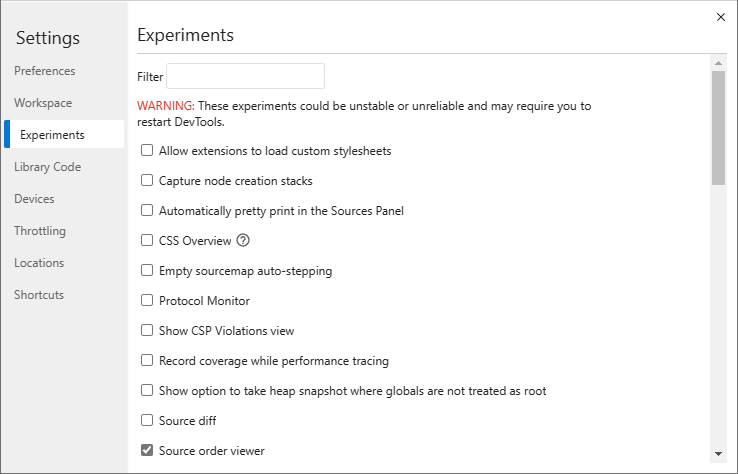
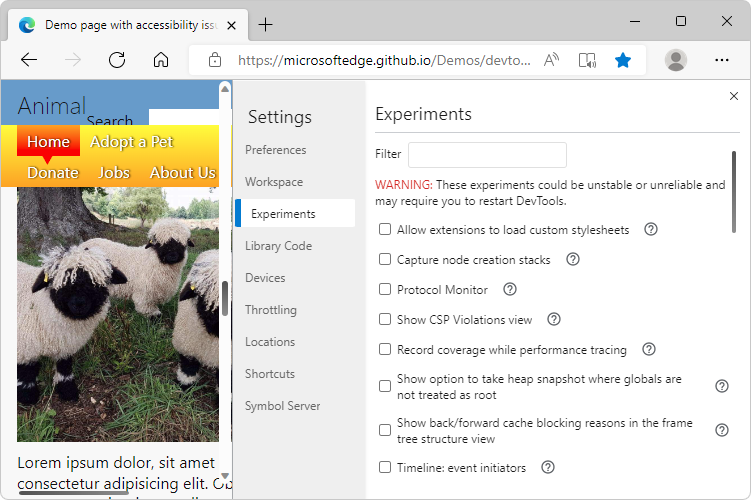
Doc locking Inspect tool overlay

diff --git a/microsoft-edge/devtools-guide-chromium/whats-new/2022/05/devtools-102.md b/microsoft-edge/devtools-guide-chromium/whats-new/2022/05/devtools-102.md
@@ -81,33 +81,21 @@ See also:
 <!-- Title: Improving the Inspect element tooltip -->
 <!-- Subtitle: The Inspect element tooltip now persists until you dismiss it, improving accessibility and ease of use. -->
 
-Previously, in the **Elements** tool, the hover overlay for the node that you selected constantly changed when you used the **Select Element** feature.
-The previous design was difficult to use with a screen magnifier.
+Previously, in the **Elements** tool, the hover overlay for the node that you selected constantly changed when you used the **Inspect tool** (![Inspect tool icon.](../../../media/inspect-tool-icon-light-theme.png)).  The previous design was difficult to use with a screen magnifier.
 
 When using the **Inspect** tool, to keep the node (and overlay) selected,<!--?--> there's now a `Ctrl`+`Alt` key modifier.
-Now, if you hold down `Ctrl`+`Alt`, when you move the mouse pointer over the rendered webpage, the existing tooltip and grid color overlay for the Inspect tool remains, as if locked.
-
-Also, you can now press `Ctrl`<!--?--> to hide the Inspect tool's tooltip overlay while you move the mouse pointer over the rendered webpage.
+Now, if you press and hold `Ctrl`+`Alt`, when you move the mouse pointer over the rendered webpage, the existing tooltip and grid color overlay for the Inspect tool remains, as if locked:
+<!-- todo: macOS modifiers? -->
 
 ![Inspect element tooltip now persists.](devtools-102-images/inspect-element-tooltip-persists.png)
-<!-- screenshot instructions:
-1. Set magnifier in windows settings to > 200%.
-2. Inspect the web page (microsoft.com is fine).
-3. Make sure the Elements tool tab is open.
-4. Click the Inspect element tool.
-5. Move to the content of the rendered webpage (not inside devtools).
-6. Try navigating without key modifiers.  You will start going through nodes/elements as soon as mouse starts moving.
-After the fix:
-Element keeps selected and you can move the mouse around (allowing you to navigate the screen and keep context)
--->
 
-<!-- work item has GIF -->
+Also, you can now press `Ctrl`<!--todo: macOS?--> to hide the Inspect tool's tooltip overlay while you move the mouse pointer over the rendered webpage.
 
 For the history of this feature in the Chromium open-source project, see Issue [1316208](https://crbug.com/1316208).
 
 See also:
-*  [Analyze pages using the Inspect tool](../../../css/inspect.md)
-*  [Navigate DevTools with assistive technology](../../../accessibility/navigation.md)
+*  [Persisting the Inspect tool's tooltip and grid color overlay](../../../css/inspect.md#persisting-the-inspect-tools-tooltip-and-grid-color-overlay) in _Analyze pages using the Inspect tool_.
+*  [Inspect an element on the page](../../../accessibility/navigation.md#inspect-an-element-on-the-page) in _Navigate DevTools with assistive technology_.
 
 
 <!-- ====================================================================== -->
@@ -145,16 +133,11 @@ See also:
 <!-- Title: Help icons for Experiments checkboxes -->
 <!-- Subtitle: In Settings > Experiments page, each experimental feature's checkbox has a Help (?) icon next to it for more information.. -->
 
-In the **Settings** > **Experiments** page, checkboxes now have a Help ![Help icon for Settings > Experiments checkboxes.](../04/devtools-101-images/settings-experiments-help-icon.png) icon:
+In the **Settings** > **Experiments** page, checkboxes now have a **Help** (![Help icon for Settings > Experiments checkboxes.](devtools-102-images/settings-experiments-help-icon.png)) button:
 
 ![Help icons for Settings > Experiments checkboxes.](devtools-102-images/settings-experiments-help-icons.png)
 
-Click a Help icon to get more information about an experimental feature.  The Help icon opens the relevant section in [Experimental features](../../../experimental-features/index.md).
-
-<!--
-Video recording of feature in action
-See attachment
--->
+To get more information about an experimental feature, click a **Help** (![Help icon for Settings > Experiments checkboxes.](devtools-102-images/settings-experiments-help-icon.png)) button.  The **Help** button displays the relevant section of the [Experimental features](../../../experimental-features/index.md) article.
 
 
 <!-- ====================================================================== -->

diff --git a/microsoft-edge/devtools-guide-chromium/accessibility/navigation.md b/microsoft-edge/devtools-guide-chromium/accessibility/navigation.md
@@ -129,6 +129,9 @@ Opening a tool this way puts focus in the content area of the tool.  In the case
 
 The **DOM Tree** is laid out as an [ARIA tree](https://www.w3.org/TR/wai-aria-1.1/#tree).  For an example, see [Navigate the **DOM Tree** with a keyboard](../dom/index.md#navigate-the-dom-tree-with-a-keyboard).
 
+To lock the **Inspect** tool's tooltip and grid color overlay while you move the mouse over the rendered webpage, press and hold `Ctrl`+`Alt`.<!-- todo: macOS modifiers? -->  See [Persisting the Inspect tool's tooltip and grid color overlay](../css/inspect.md#persisting-the-inspect-tools-tooltip-and-grid-color-overlay) in _Analyze pages using the Inspect tool_.
+
+
 ### Copy the code for an element in the DOM Tree
 
 1. Right-click a node in the **DOM Tree**.
@@ -141,6 +144,7 @@ The **DOM Tree** is laid out as an [ARIA tree](https://www.w3.org/TR/wai-aria-1.
 
 *  **Copy outerHTML** often doesn't select the current node, but instead selects the parent node.  However, the contents of the element should still be in the copied `outerHTML`.
 
+
 ### Modify the attributes of an element in the DOM Tree
 
 *  With focus on a node in the **DOM Tree**, press `Enter` to make it editable.
@@ -152,6 +156,7 @@ The **DOM Tree** is laid out as an [ARIA tree](https://www.w3.org/TR/wai-aria-1.
 #### Known issues
 
 *  When you type into the text input, you get no feedback.  If you make a typo and use the arrow keys to explore your input, you also get no feedback.  The easiest way to check your work is to accept the change, then listen for the entire element to be announced.
+
 
 ### Edit the HTML of an element in the DOM Tree
 
@@ -174,6 +179,7 @@ The **Elements** tool contains additional tabs for inspecting things like the CS
 *  Press `Right Arrow` to explore other available tabs.
 
 The **DOM Tree** turns elements with `href` attributes into focusable links, so you may need to press `Tab` more than once to reach the **Styles** pane.
+
 
 ### Known issues
 

diff --git a/microsoft-edge/devtools-guide-chromium/css/inspect.md b/microsoft-edge/devtools-guide-chromium/css/inspect.md
@@ -95,6 +95,21 @@ When you click an element in the rendered page:
 
 
 <!-- ====================================================================== -->
+## Persisting the Inspect tool's tooltip and grid color overlay
+
+If you don't make the Inspect tool's tooltip persist, the hover overlay constantly changes when you used the **Inspect tool** (![Inspect tool icon.](media/inspect-tool-icon-light-theme.png)).  This behavior can be difficult to use with a screen magnifier.
+
+When using the **Inspect** tool, to keep the node (and overlay) selected, press and hold `Ctrl`+`Alt`.  When you press and hold `Ctrl`+`Alt`, when you move the mouse pointer over the rendered webpage, the existing tooltip and grid color overlay for the Inspect tool remains, as if locked.
+<!-- todo: macOS modifiers? -->
+
+
+<!-- ====================================================================== -->
+## Temporarily hiding the Inspect element tooltip
+
+To hide the **Inspect** tool's tooltip overlay while you move the mouse pointer over the rendered webpage, press and hold `Ctrl` .<!--todo: macOS?-->
+
+
+<!-- ====================================================================== -->
 ## See also
 
 * [Use the Inspect tool to detect accessibility issues by hovering over the webpage](../accessibility/test-inspect-tool.md)
